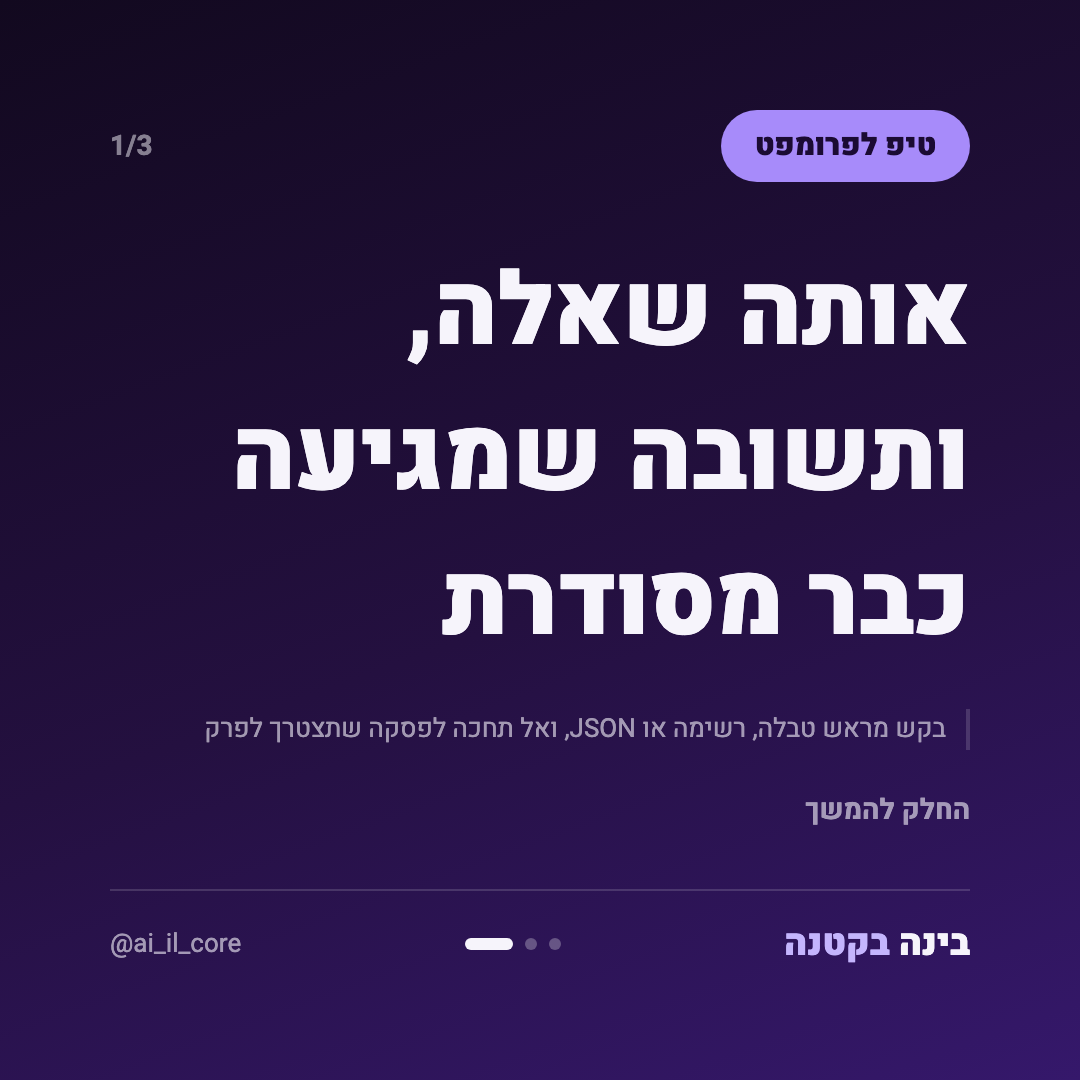
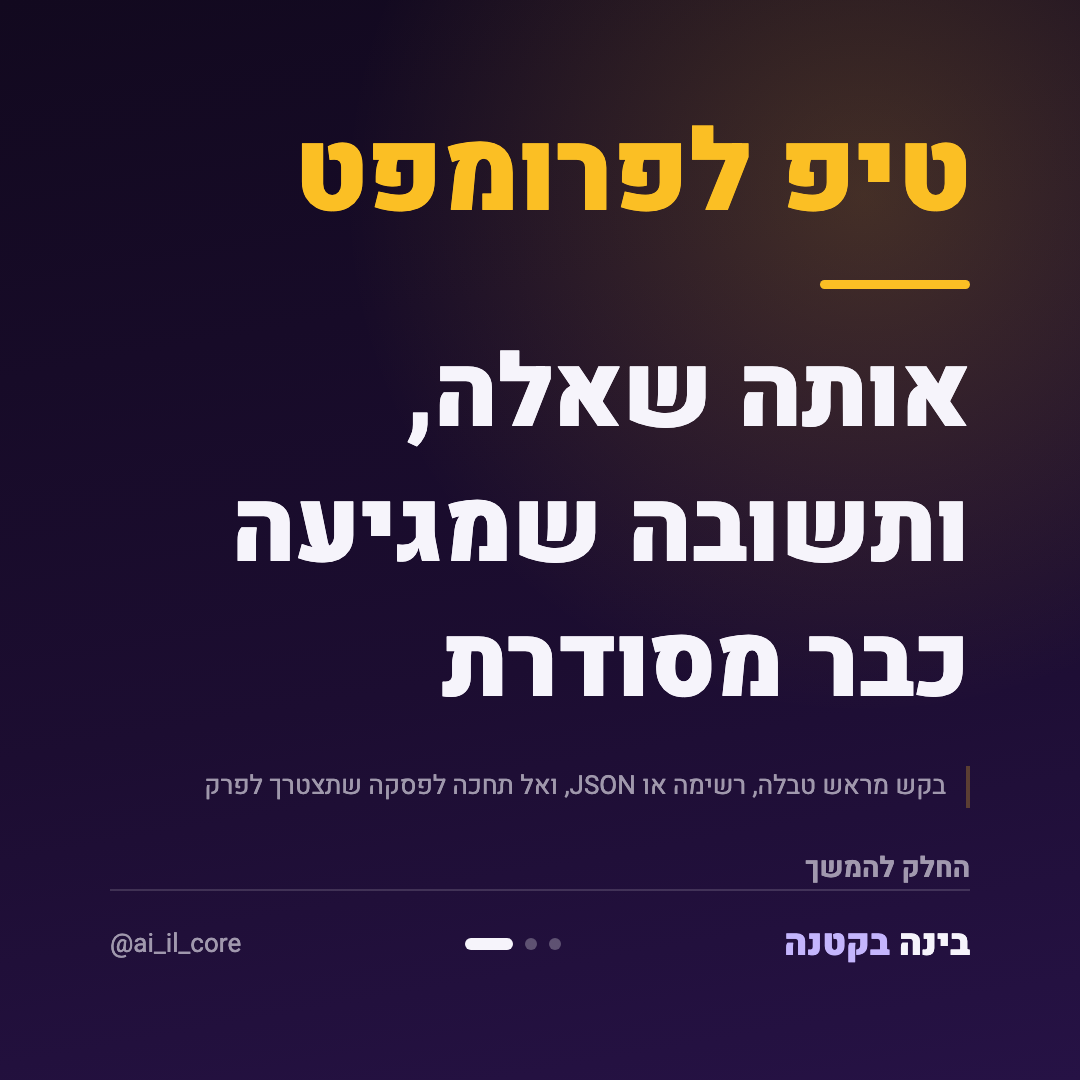
Item 54: template B first card on alternate evening carousels (Hebrew port)

diff --git a/generate.py b/generate.py
@@ -1060,6 +1060,22 @@ _CARD_CSS = """
   .dots { display:flex; gap:12px; align-items:center; direction:ltr; }
   .dots span { width:12px; height:12px; border-radius:6px; background:rgba(255,255,255,0.28); }
   .dots span.on { width:48px; background:#f6f4fb; }
+  /* Item 54 (template B, 3.11.2026, ported from the stock account): every
+     other evening carousel that is not already the Wednesday question test
+     opens on a different first card, so the grid stops looking like one image
+     repeated. No pill row: the category is set large in amber, the hook sits
+     low behind an amber rule, and a warm glow replaces the cool gradient.
+     Same fonts and the same dark ground, so the corner check still holds. */
+  body.tb {
+    background:
+      radial-gradient(circle at 80% 18%, rgba(251,191,36,0.20) 0%, rgba(251,191,36,0) 42%),
+      linear-gradient(170deg, #12091f 0%, #1c0d31 60%, #261245 100%);
+  }
+  body.tb .body { justify-content:flex-end; }
+  .tb-kicker { font-size:112px; font-weight:900; line-height:1.05; color:#fbbf24; }
+  .tb-rule { width:150px; height:9px; border-radius:5px; background:#fbbf24; margin:46px 0 38px; }
+  body.tb .headline { line-height:1.35; }
+  body.tb .source { border-right-color:rgba(251,191,36,0.45); }
   /* A Latin fragment inside a Hebrew sentence keeps its own direction. */
   .ltr { direction:ltr; unicode-bidi:isolate; display:inline-block; }
 """
@@ -1073,14 +1089,14 @@ def _dots(position, total):
     ) + "</div>"
 
 
-def _card_shell(top_row_html, body_html, dots_html=""):
+def _card_shell(top_row_html, body_html, dots_html="", body_class=""):
     return f"""<!DOCTYPE html>
 <html lang="he" dir="rtl">
 <head>
 <meta charset="UTF-8">
 <style>{_CARD_CSS}</style>
 </head>
-<body>
+<body class="{body_class}">
   {top_row_html}
   {body_html}
   <div class="footer">
@@ -1124,10 +1140,36 @@ _EXPLAIN_STEPS = [(120, 46), (180, 42), (240, 38), (310, 34), (430, 30)]
 _TAKEAWAY_STEPS = [(60, 52), (90, 46), (130, 40)]
 
 
-def render_slide_html(kind, position, total, category, copy):
+def wants_template_b(slot):
+    """Item 54: every other evening slot, never on the Wednesday question test,
+    so no running experiment shares its first card with this one."""
+    return (slot is not None and slot.hour >= 15 and not wants_question_hook(slot)
+            and slot.toordinal() % 2 == 1)
+
+
+def slot_variant(slot):
+    if wants_question_hook(slot):
+        return "question-hook"
+    if wants_template_b(slot):
+        return "template-b"
+    return None
+
+
+def render_slide_html(kind, position, total, category, copy, template_b=False):
     """One carousel slide. Three slides, each carrying something the others don't:
     the hook, the actual explanation, and the thing to do with it."""
     meta = CATEGORY_META[category]
+    if kind == "hook" and template_b:
+        body = (
+            f'<div class="tb-kicker">{escape(meta["tag"])}</div>'
+            '<div class="tb-rule"></div>'
+            f'<div class="headline" style="font-size:{_fit(copy["hook"], _HOOK_STEPS)}px;">'
+            f'{escape(copy["hook"])}</div>'
+            f'<div class="source">{escape(copy["headline"])}</div>'
+            f'<div class="swipe">החלק להמשך</div>'
+        )
+        return _card_shell("", f'<div class="body">{body}</div>',
+                           _dots(position, total), body_class="tb")
     top_row = (
         f'<div class="top-row"><div class="tag">{escape(meta["tag"])}</div>'
         f'<div class="slide-num ltr">{position}/{total}</div></div>'
@@ -1200,10 +1242,12 @@ def build_slot(slot_dir: pathlib.Path, category, copy, news=None,
                copy_prompt=None):
     slot_dir.mkdir(parents=True, exist_ok=True)
     slot = slot_time_from_name(slot_dir.name)
+    variant = slot_variant(slot)
     with tempfile.TemporaryDirectory() as tmp:
         tmp = pathlib.Path(tmp)
         for i, kind in enumerate(SLIDE_PLAN, start=1):
-            html = render_slide_html(kind, i, len(SLIDE_PLAN), category, copy)
+            html = render_slide_html(kind, i, len(SLIDE_PLAN), category, copy,
+                                     template_b=(variant == "template-b"))
             html_path = tmp / f"slide_{i}.html"
             html_path.write_text(html, encoding="utf-8")
             render_png(html_path, slot_dir / f"post_{i}.png")
@@ -1224,7 +1268,7 @@ def build_slot(slot_dir: pathlib.Path, category, copy, news=None,
         "backlog_items": BACKLOG_ITEMS,
         "copy_prompt": copy_prompt,
         "question_type": copy_check.question_type_for(slot),
-        "variant": "question-hook" if wants_question_hook(slot) else None,
+        "variant": variant,
     }
     (slot_dir / "source.json").write_text(
         json.dumps(record, ensure_ascii=False, indent=1), encoding="utf-8",
@@ -1249,11 +1293,21 @@ def rebuild_slot(slot_dir: pathlib.Path):
         raise RuntimeError(f"no source.json in {slot_dir}, nothing to rebuild from")
     data = json.loads(source.read_text(encoding="utf-8"))
     category, copy = data["category"], data["copy"]
+    # The variant is a function of the slot, so a queued post picks up a new
+    # template on rebuild. A variant some other code stamped is left alone.
+    variant = data.get("variant")
+    if variant in (None, "template-b"):
+        variant = slot_variant(slot_time_from_name(slot_dir.name))
+        if variant != data.get("variant"):
+            data["variant"] = variant
+            source.write_text(json.dumps(data, ensure_ascii=False, indent=1),
+                              encoding="utf-8")
 
     with tempfile.TemporaryDirectory() as tmp:
         tmp = pathlib.Path(tmp)
         for i, kind in enumerate(SLIDE_PLAN, start=1):
-            html = render_slide_html(kind, i, len(SLIDE_PLAN), category, copy)
+            html = render_slide_html(kind, i, len(SLIDE_PLAN), category, copy,
+                                     template_b=(variant == "template-b"))
             html_path = tmp / f"slide_{i}.html"
             html_path.write_text(html, encoding="utf-8")
             render_png(html_path, slot_dir / f"post_{i}.png")
